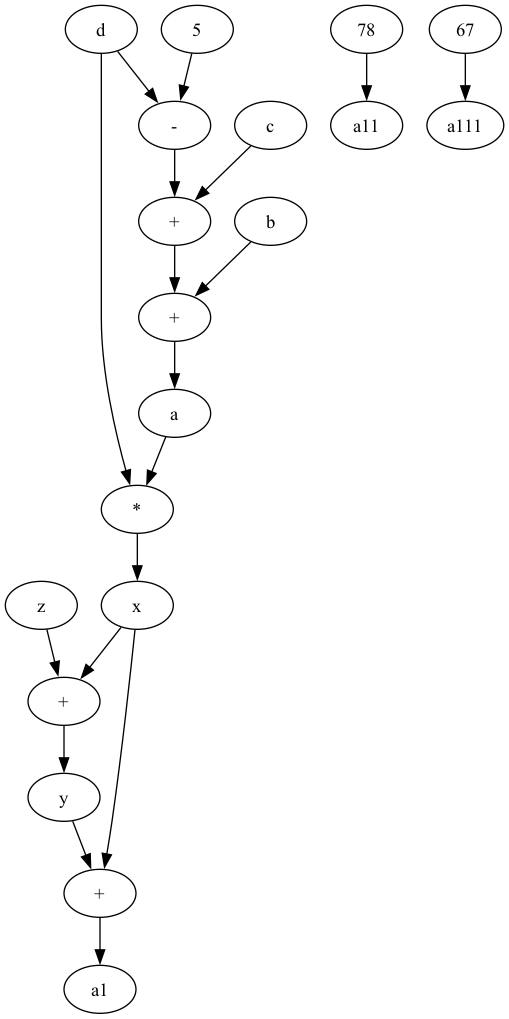
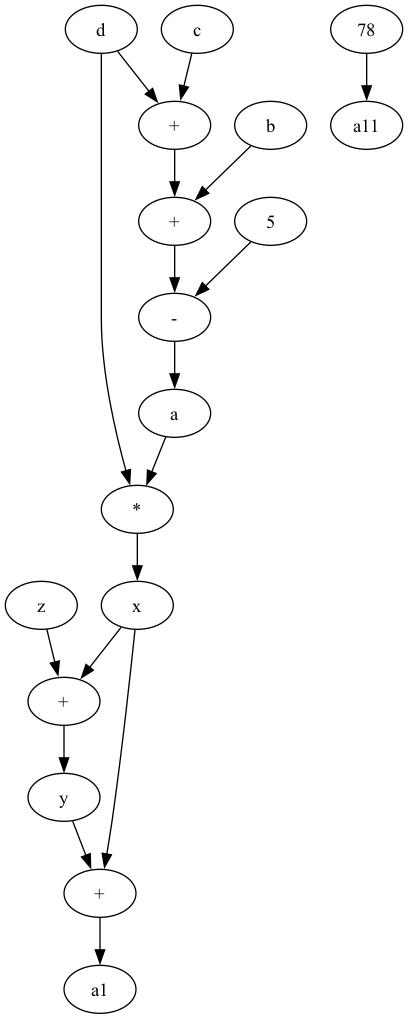
bodmas

diff --git a/A1/basic.cpp b/A1/basic.cpp
@@ -104,7 +104,7 @@ int precedence(char op) {
         return 3;
     }
     if(op=='+'){
-        return 1;
+        return 2;
     }
     if(op=='-'){
         return 1;
@@ -182,7 +182,7 @@ TreeNode* constructAST(const vector<string>& prefixExpression) {
 }
 
 int main() {
-    string input_filename = "./io/example.txt";
+    string input_filename = "./io/example_3.txt";
     std::ifstream infile(input_filename);
 
     if (!infile) {

diff --git a/A1/dfg.cpp b/A1/dfg.cpp
@@ -84,7 +84,7 @@ int precedence(char op) {
         return 3;
     }
     if(op=='+'){
-        return 1;
+        return 2;
     }
     if(op=='-'){
         return 1;
